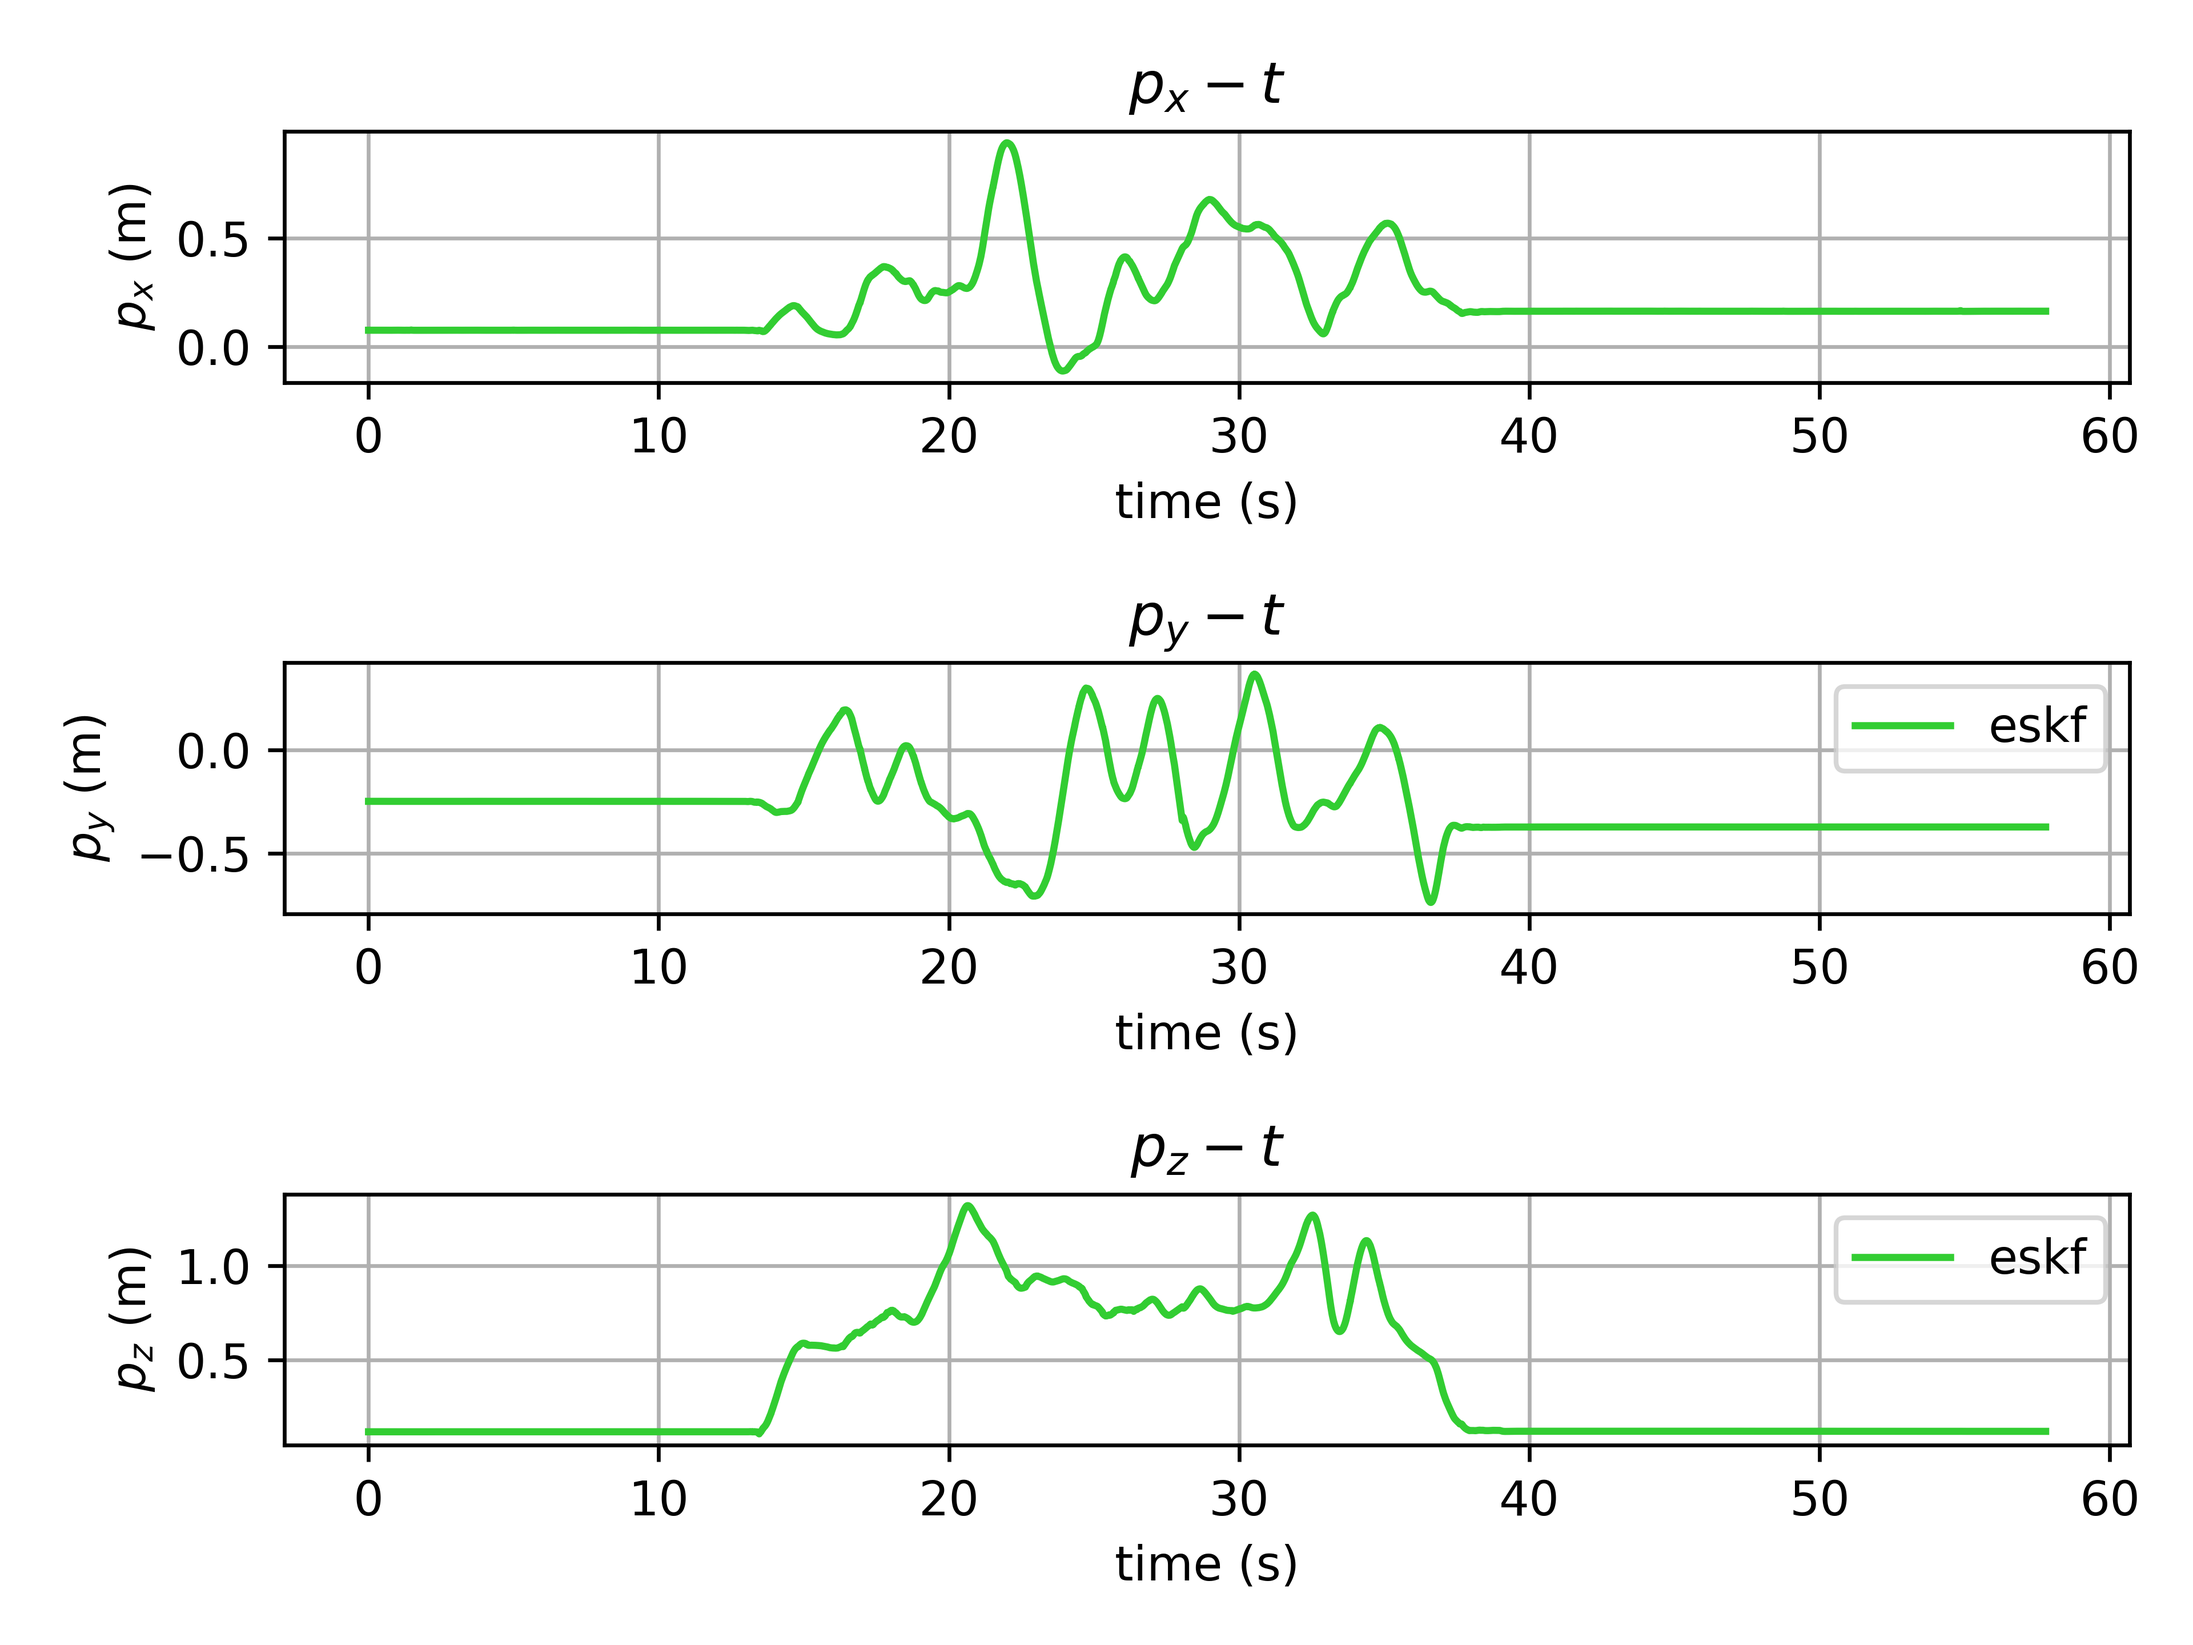
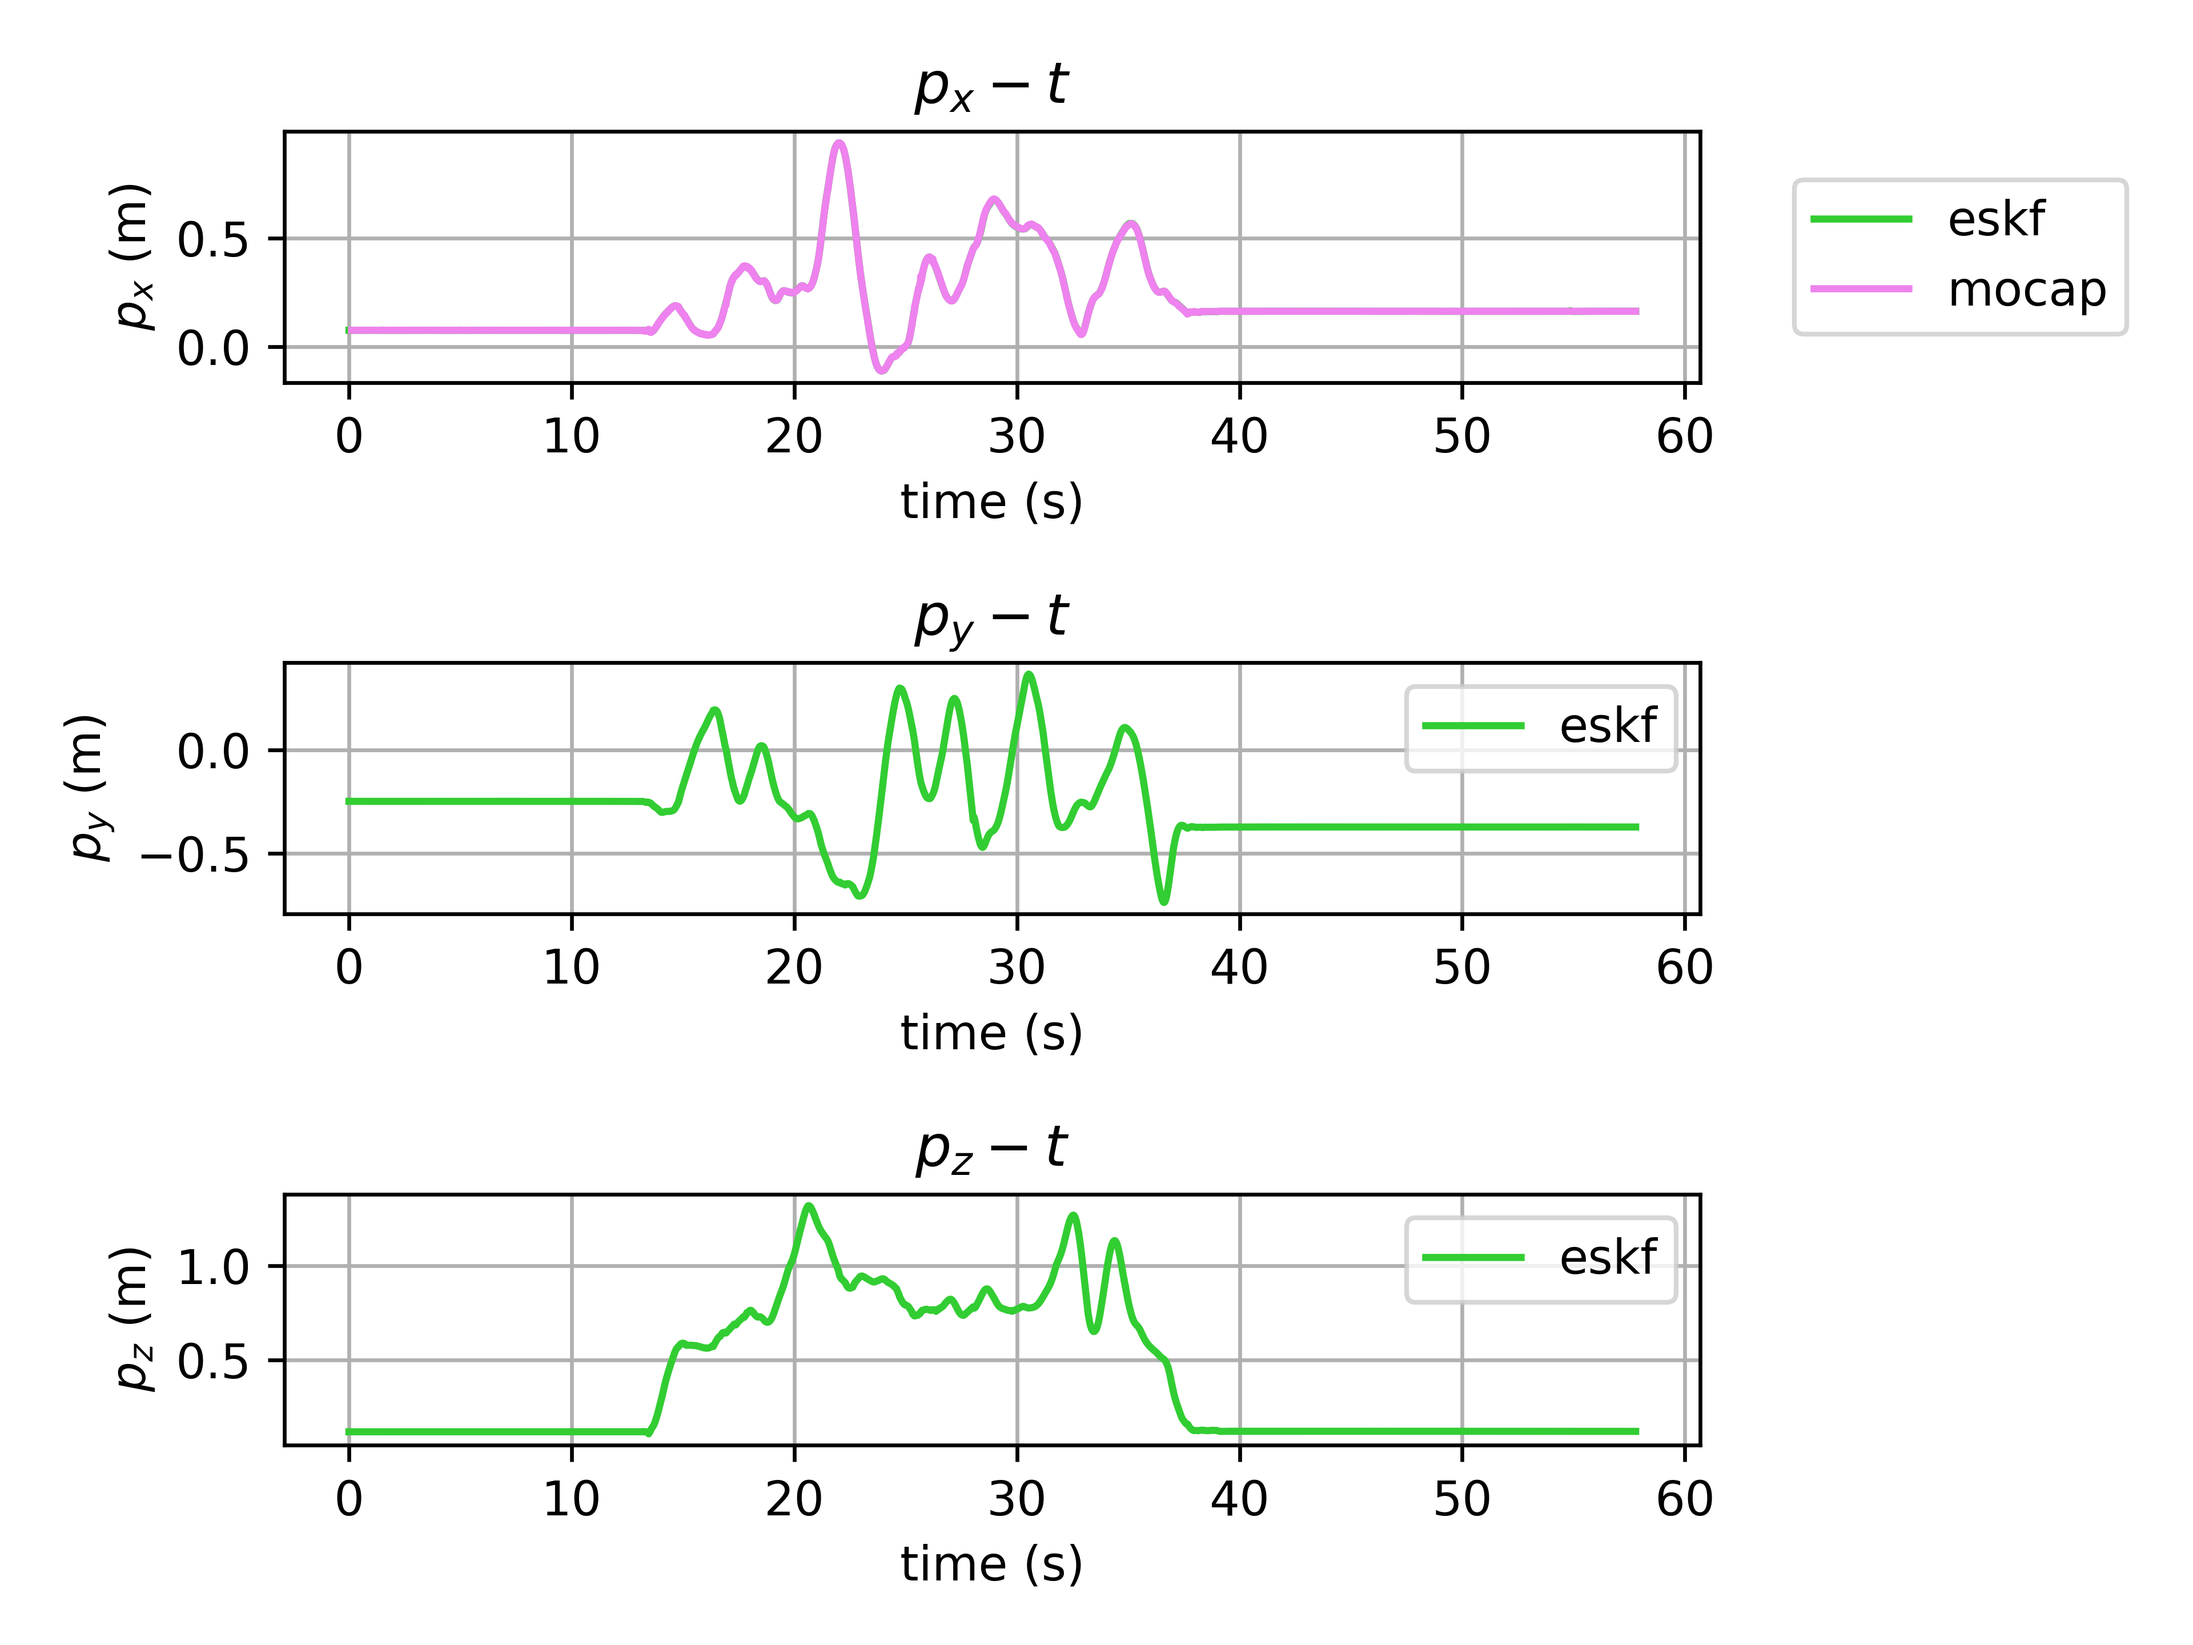
...

diff --git a/analysis_tool/bag_analysis_realworld_data.py b/analysis_tool/bag_analysis_realworld_data.py
@@ -1,30 +1,33 @@
 from bag_file_extractor import BagFileExtractor
-from state_demuxer import state_demux
+from state_demuxer import state_demux, pose_demux
 import matplotlib.pyplot as plt
 
 if __name__ == '__main__':
     bag_folder_name = '../realworld_bag2/'
 
     topic_list = ['/eskf_state',
-                   '/mocap/pose']
+                   '/mocap_state']
 
     bag_extractor = BagFileExtractor(bag_folder_name)
 
     odom_eskf = bag_extractor.extract_odometry(topic_list[0])
-    pose_mocap = bag_extractor.extract_pose(topic_list[1])
+    pose_mocap = bag_extractor.extract_odometry(topic_list[1])
 
     t_eskf, p_eskf, q_eskf, v_eskf, w_eskf = state_demux(odom_eskf, False)
-
+    t_mocap, p_mocap, q_mocap, _,_ = state_demux(pose_mocap, False)
     temp_t0 = t_eskf[0]
     t_eskf = t_eskf - temp_t0
+    t_mocap = t_mocap - temp_t0
 
     plt.figure(0)
 
     plt.subplot(3,1,1)
     plt.plot(t_eskf, p_eskf[:,0], label='eskf', color='limegreen')
+    plt.plot(t_mocap, p_mocap[:,0], label='mocap', color='violet')
     plt.title('$p_x - t$')
     plt.xlabel('time (s)')
     plt.ylabel('$p_x$ (m)')
+    plt.legend(loc='center left', bbox_to_anchor=(1.05,0.5))
     plt.grid(True)
 
     plt.subplot(3,1,2)

diff --git a/analysis_tool/bag_file_extractor.py b/analysis_tool/bag_file_extractor.py
@@ -70,5 +70,5 @@ class BagFileExtractor():
                                 msg.pose.orientation.y,
                                 msg.pose.orientation.z]
             idx = idx + 1
-        pose_dict = {'time': pose_time, 'pose_data':pose_data}
+        pose_dict = {'time': pose_time, 'data':pose_data}
         return pose_dict
